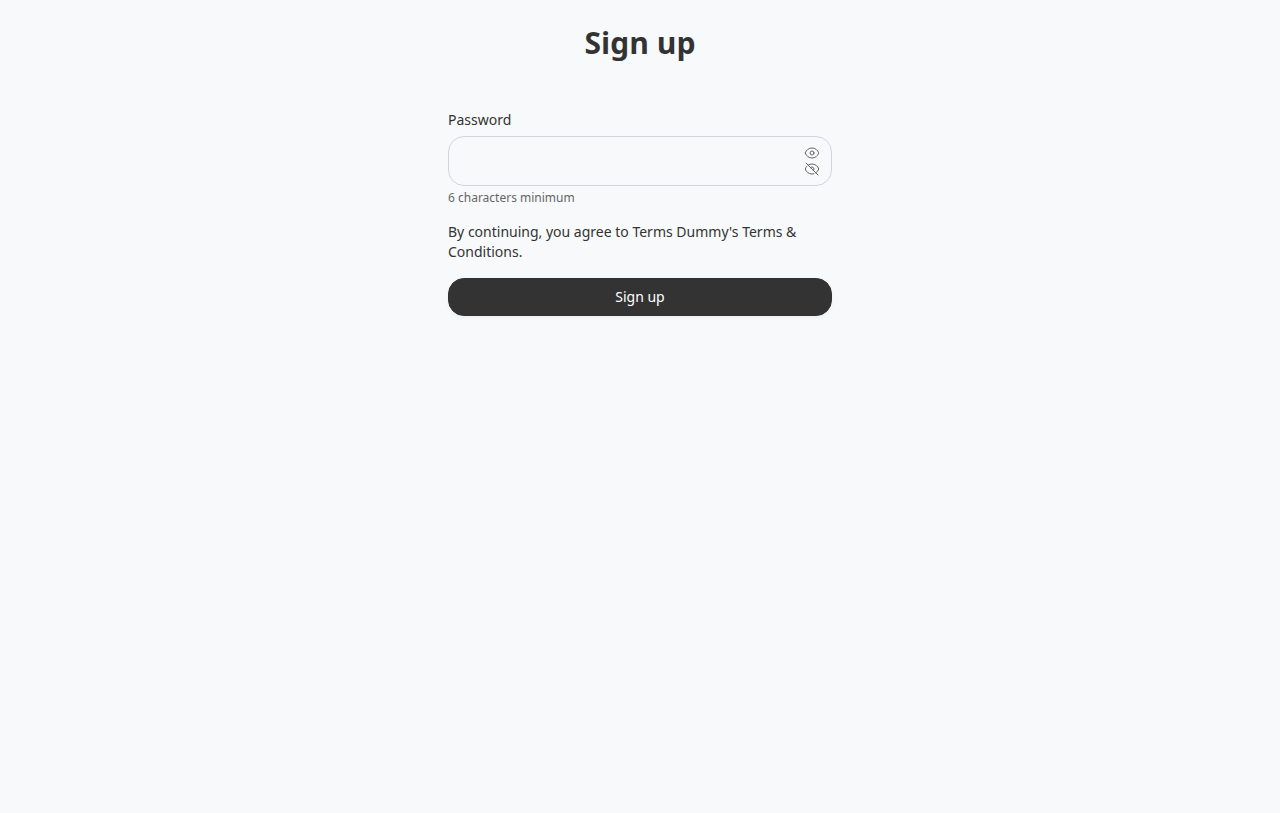
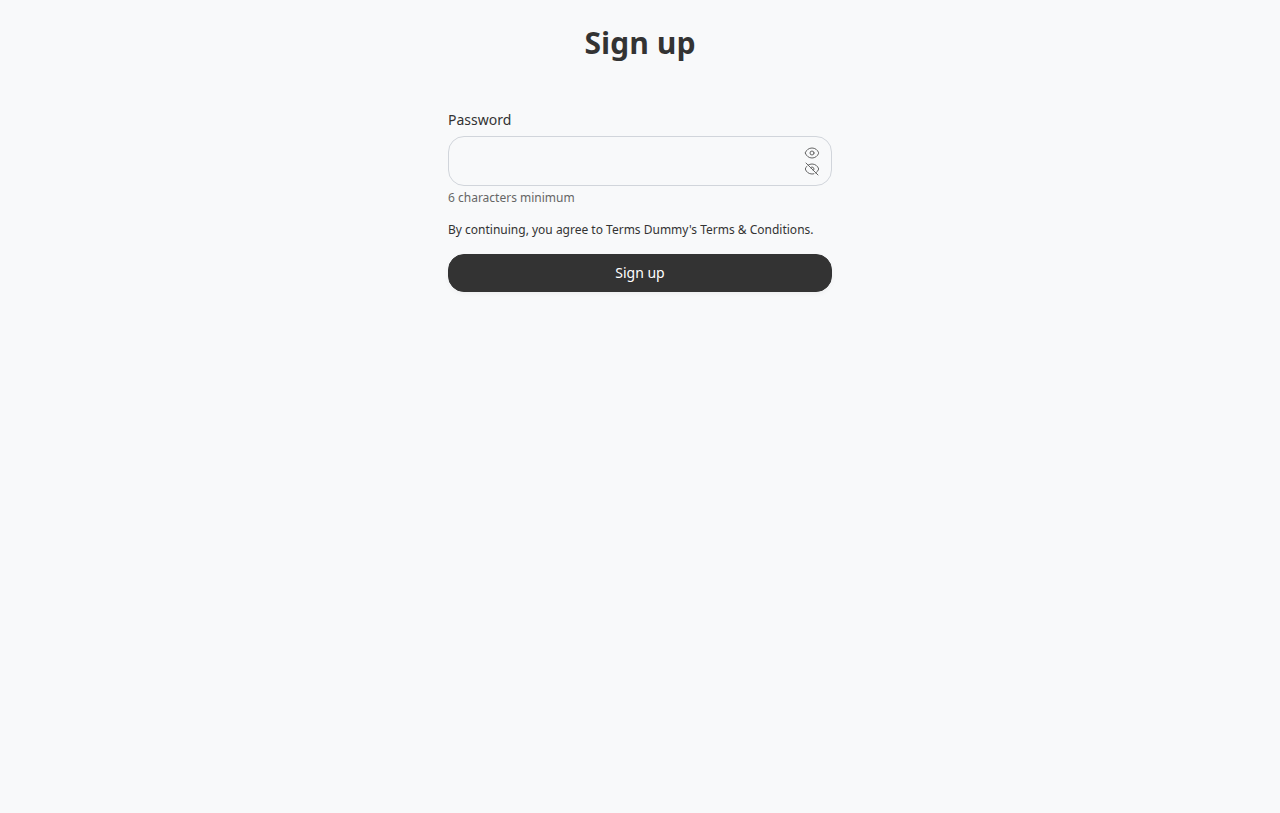
Add continue-notice size and use xs on signup.
Default stays sm so host call sites are unchanged. Unknown sizes fall back to sm.

Changed region(s): [[0.3438, 0.2768, 0.6562, 0.3998]]

diff --git a/app/helpers/recording_studio_terms_and_conditions/continue_notice_helper.rb b/app/helpers/recording_studio_terms_and_conditions/continue_notice_helper.rb
@@ -5,12 +5,14 @@ module RecordingStudioTermsAndConditions
     include TermsContextHelper
     include AgreeCopyHelper
 
-    def recording_studio_terms_continue_notice(actor: nil, root: nil, pending: nil)
+    CONTINUE_NOTICE_SIZES = { xs: "text-xs", sm: "text-sm" }.freeze
+
+    def recording_studio_terms_continue_notice(actor: nil, root: nil, pending: nil, size: :sm)
       terms = continue_notice_terms(actor, root, pending)
       return if terms.blank?
 
       modal_id = "terms-continue-notice-#{SecureRandom.hex(4)}"
-      safe_join([continue_notice_copy(modal_id), continue_notice_modal(terms, modal_id)])
+      safe_join([continue_notice_copy(modal_id, size), continue_notice_modal(terms, modal_id)])
     end
 
     private
@@ -24,8 +26,12 @@ module RecordingStudioTermsAndConditions
       recording_studio_terms_pending_list(actor, root, pending).first
     end
 
-    def continue_notice_copy(modal_id)
-      content_tag(:p, continue_notice_sentence(modal_id), class: "text-sm")
+    def continue_notice_copy(modal_id, size = :sm)
+      content_tag(:p, continue_notice_sentence(modal_id), class: continue_notice_size_class(size))
+    end
+
+    def continue_notice_size_class(size)
+      CONTINUE_NOTICE_SIZES.fetch(size.to_s.to_sym, CONTINUE_NOTICE_SIZES[:sm])
     end
 
     def continue_notice_sentence(modal_id)

diff --git a/test/recording_studio_terms_and_conditions_test.rb b/test/recording_studio_terms_and_conditions_test.rb
@@ -285,6 +285,8 @@ class RecordingStudioTermsAndConditionsTest < Minitest::Test
     assert_includes helper, "def recording_studio_terms_agree"
     refute_includes helper, "def recording_studio_terms_continue_notice"
     assert_includes continue_helper, "def recording_studio_terms_continue_notice"
+    assert_includes continue_helper, "size: :sm"
+    assert_includes continue_helper, "text-xs"
     assert_includes continue_helper, "continue_notice"
     assert_includes continue_helper, "FlatPack::Modal::Component"
     assert_includes continue_helper, "terms_content(terms.body)"
@@ -666,6 +668,7 @@ class RecordingStudioTermsAndConditionsTest < Minitest::Test
     assert_includes File.read(skill), "Upgrade (0.6.0 → 0.6.1)"
     extra_fields_source = File.read(File.join(engine_root, extra_fields))
     assert_includes extra_fields_source, "recording_studio_terms_continue_notice"
+    assert_includes extra_fields_source, "size: :xs"
     refute_includes extra_fields_source, "recording_studio_terms_agree("
     assert_includes File.read(skill), '{ "source" => "continue_notice" }'
   end

diff --git a/test/dummy/test/helpers/terms_agree_helper_test.rb b/test/dummy/test/helpers/terms_agree_helper_test.rb
@@ -56,6 +56,24 @@ class TermsAgreeHelperTest < ActionView::TestCase
     assert_includes html, "fp-content"
     assert_includes html, "Be kind in the booth."
     assert_includes html, "Studio Terms"
+    assert_includes html, '<p class="text-sm">'
+    refute_includes html, '<p class="text-xs">'
+  end
+
+  test "continue notice size xs uses text-xs" do
+    terms = Struct.new(:body, :title).new("<p>Be kind.</p>", "Studio Terms")
+
+    html = recording_studio_terms_continue_notice(pending: [terms], size: :xs)
+
+    assert_includes html, '<p class="text-xs">'
+    refute_includes html, '<p class="text-sm">'
+  end
+
+  test "continue notice size sm and unknown sizes use text-sm" do
+    terms = Struct.new(:body, :title).new("<p>Be kind.</p>", "Studio Terms")
+
+    assert_includes recording_studio_terms_continue_notice(pending: [terms], size: :sm), '<p class="text-sm">'
+    assert_includes recording_studio_terms_continue_notice(pending: [terms], size: :lg), '<p class="text-sm">'
   end
 
   test "continue notice drops the possessive when app_name is blank" do

diff --git a/test/dummy/test/integration/signup_agree_test.rb b/test/dummy/test/integration/signup_agree_test.rb
@@ -23,6 +23,7 @@ class SignupAgreeTest < ActionDispatch::IntegrationTest
     assert_select "input[type=checkbox][name=agreed]", count: 0
     assert_includes CGI.unescapeHTML(response.body), "By continuing, you agree"
     assert_includes response.body, "Terms &amp; Conditions"
+    assert_includes response.body, '<p class="text-xs">'
   end
 
   test "create-password writes a continue_notice receipt and clears the gate" do

diff --git a/README.md b/README.md
@@ -18,10 +18,10 @@ This addon ships the **data shape, domain helpers, clickwrap Agree screen, embed
 - **Domain helpers** on `RecordingStudioTermsAndConditions`: `current_published_for`, `pending_published_list` / `pending_published_for`, `accepted?`, `accept!`, `requires_acceptance?`, `reaccepting?`
 - **Agree screen** for the current published Terms (pre-checked checkbox, gated Agree, `accept!`). No PageNav. Live copy sits in a Flatpack Collapse (closed by default) wrapping `FlatPack::Content`. Optional `require_scroll_to_end` keeps Agree disabled until a sentinel after the live body is visible (default off). If IntersectionObserver is missing, Agree stays enabled. The calendar date stays in the heading, not a relative “hours ago”
 - **Host helper** `recording_studio_terms_agree` / `recording_studio_terms_agree(inside_form: true)` — Flatpack checkbox only, HTML `required`. Pass `link_terms: true` to turn the word terms into a link to the public URL. On submit, call `accept!` for the pending live version
-- **Host helper** `recording_studio_terms_continue_notice` — “By continuing, you agree to [app name]'s Terms & Conditions”. The linked words open a Flatpack Modal with `FlatPack::Content` inside. On the host POST, call `accept!` with `{ "source" => "continue_notice" }`. Do not replace the checkbox helper
+- **Host helper** `recording_studio_terms_continue_notice` — “By continuing, you agree to [app name]'s Terms & Conditions”. Optional `size:` `:xs` (`text-xs`) or `:sm` (`text-sm`, default). The linked words open a Flatpack Modal with `FlatPack::Content` inside. On the host POST, call `accept!` with `{ "source" => "continue_notice" }`. Do not replace the checkbox helper
 - **Gate** on the host `ApplicationController`: redirects to Agree until the live version is accepted, and again after a new publish
 - **Users hook** on `RecordingStudioUser::Auth::BaseController` so after sign in / sign up land on Agree when acceptance is still required
-- **Users create-password slot** (`recording_studio_user/auth/registrations/_extra_fields`) renders `recording_studio_terms_continue_notice` when live Terms are pending. Successful `create_password` calls `accept!` with provenance `continue_notice`. Soft: TnC still boots without Users Auth.
+- **Users create-password slot** (`recording_studio_user/auth/registrations/_extra_fields`) renders `recording_studio_terms_continue_notice(..., size: :xs)` when live Terms are pending. Successful `create_password` calls `accept!` with provenance `continue_notice`. Soft: TnC still boots without Users Auth.
 - **Admin** create/edit Terms, Publishable `QuickActions` (Draft / Publish now / Preview), and a Users page of receipts for each term. Engine tables use `TablePage` (Pagy, 25 rows) and Flatpack infinite pagination. Admin hub Terms and Conditions and Agree stats tables set `paginate per_page: 25`. Live and Agrees widgets stack the title above the count (`view_variant: :card`). The hub does not show Accessible **+ Access**. Writes go through a registered Admin `terms` resource (`authorize_resource!` / `perform_recording_studio_admin_action!`)
 - **Public Terms URL** at `/terms/:uuid/:slug` via Publishable
 - **FlatPack** UI component library for all views
@@ -138,7 +138,7 @@ The dummy host follows Recording Studio's root recording pattern:
 - The gem includes `ForcesAcceptance` on the host `ApplicationController` and prepends `UsersAuthRedirect` on Users Auth. Both reuse `pending_published_list` / `requires_acceptance?` and the mounted Agree screen. Auth, Agree, Admin, public Terms, and root switch stay reachable so people can sign in, accept, publish, or switch workspace.
 - With Users `>= 0.12.1`, the gem fills the create-password `extra_fields` slot with `recording_studio_terms_continue_notice` and accepts pending live Terms on that POST (`source` `continue_notice`). Continuing the form is the agreement. `NotLive` does not fail signup.
 - Hosts can render `recording_studio_terms_agree` or `recording_studio_terms_agree(inside_form: true)` inside signup or similar. The helper is the `required` `agreed` checkbox only. On the host POST, call `accept!` for the pending live version — do not invent a second receipt.
-- Hosts can also render `recording_studio_terms_continue_notice`. The link opens a Flatpack Modal with the live copy in `FlatPack::Content`. On that POST, call `accept!` with `{ "source" => "continue_notice" }`.
+- Hosts can also render `recording_studio_terms_continue_notice`. Pass `size: :xs` for `text-xs` (signup extra_fields does this). Default is `size: :sm`. The link opens a Flatpack Modal with the live copy in `FlatPack::Content`. On that POST, call `accept!` with `{ "source" => "continue_notice" }`.
 - Scroll-to-end before Agree is optional. Set `config.require_scroll_to_end = true`, or wrap the live copy and Agree button with `recording_studio_terms_scroll_to_end(require_scroll_to_end: true)` and `recording_studio_terms_agree_button(require_scroll_to_end: true)`. Pin the engine Stimulus controller in the host importmap. The checkbox stays required either way. Missing IntersectionObserver leaves Agree enabled. An already-visible sentinel unlocks immediately.
 - Product configuration is `mount_path`, `app_name`, `require_scroll_to_end`, and `capture_request_provenance` (IP/UA on gem UI accepts, default off). There is no API key. `app_name` is optional. A blank value uses Site Settings `name_for` when that gem is loaded.
 - Each configured recordable declares `recording_studio_recordable(...)`; strict declaration validation stays enabled

diff --git a/.github/skills/recording-studio-terms-and-conditions/SKILL.md b/.github/skills/recording-studio-terms-and-conditions/SKILL.md
@@ -51,7 +51,7 @@ Live means Publishable `currently_published?`. `accept!` raises `NotLive` for dr
 
 `pending_published_list` is the live Terms the actor still needs. The host gate (`ForcesAcceptance`) and Users Auth post-auth stay on until that set is empty.
 
-When Users `>= 0.12.1` is loaded, this gem overrides `recording_studio_user/auth/registrations/_extra_fields` on create-password signup. Pending live Terms render `recording_studio_terms_continue_notice`. After a successful `create_password`, `accept!` runs with `{ "source" => "continue_notice" }`. Continuing the form is the agreement. The gem still boots if Users Auth is absent.
+When Users `>= 0.12.1` is loaded, this gem overrides `recording_studio_user/auth/registrations/_extra_fields` on create-password signup. Pending live Terms render `recording_studio_terms_continue_notice(..., size: :xs)`. After a successful `create_password`, `accept!` runs with `{ "source" => "continue_notice" }`. Continuing the form is the agreement. The gem still boots if Users Auth is absent.
 
 Drop the host helper onto a form:
 
@@ -60,11 +60,12 @@ Drop the host helper onto a form:
 <%= recording_studio_terms_agree(inside_form: true) %>
 <%= recording_studio_terms_agree(link_terms: true) %>
 <%= recording_studio_terms_continue_notice %>
+<%= recording_studio_terms_continue_notice(size: :xs) %>
 ```
 
 The checkbox helper is HTML `required`, named `agreed`. Put it in a form. On submit call `accept!` for the pending live version. Do not add a second receipt table.
 
-`recording_studio_terms_continue_notice` is a second helper. Copy uses `config.app_name`. The Terms & Conditions link opens a Flatpack Modal with `FlatPack::Content` inside. On that host POST, call `accept!` with `{ "source" => "continue_notice" }`. Do not remove the checkbox helper. Dummy `/agree_helper` posts both helpers and then lets home load.
+`recording_studio_terms_continue_notice` is a second helper. Copy uses `config.app_name`. `size:` is `:xs` (`text-xs`) or `:sm` (`text-sm`, default). Unknown sizes use `:sm`. The Terms & Conditions link opens a Flatpack Modal with `FlatPack::Content` inside. On that host POST, call `accept!` with `{ "source" => "continue_notice" }`. Do not remove the checkbox helper. Dummy `/agree_helper` posts both helpers and then lets home load.
 
 Optional scroll-to-end before Agree (default off):
 
@@ -82,7 +83,7 @@ Agree is still the post-auth destination. It has no PageNav. Live copy sits in a
 
 ## Upgrade (0.6.0 → 0.6.1)
 
-No migrations. Pin `recording_studio_user` `>= 0.12.1`. Signup extra_fields is the continue-notice helper, not the checkbox. Receipts from that POST use provenance `continue_notice`.
+No migrations. Pin `recording_studio_user` `>= 0.12.1`. Signup extra_fields is the continue-notice helper at `size: :xs`, not the checkbox. Receipts from that POST use provenance `continue_notice`. `size:` is `:xs` or `:sm` (default `:sm`).
 
 ## Upgrade (0.3.x → 0.4.0)
 

diff --git a/CHANGELOG.md b/CHANGELOG.md
@@ -10,7 +10,8 @@ and this project adheres to [Semantic Versioning](https://semver.org/spec/v2.0.0
 ## [0.6.1] - 2026-09-21
 
 ### Added
-- Users create-password override of `recording_studio_user/auth/registrations/_extra_fields` renders `recording_studio_terms_continue_notice` when live Terms are still pending. Signup does not render the checkbox helper.
+- Users create-password override of `recording_studio_user/auth/registrations/_extra_fields` renders `recording_studio_terms_continue_notice(..., size: :xs)` when live Terms are still pending. Signup does not render the checkbox helper.
+- `recording_studio_terms_continue_notice` accepts `size:` `:xs` (`text-xs`) or `:sm` (`text-sm`, default). Unknown sizes fall back to `:sm`.
 - Soft `SignupAcceptance` on Users `RegistrationsController`: after a successful `create_password`, pending live Terms are `accept!`ed with provenance `source` `continue_notice`. Continuing the form is the agreement. `ForcesAcceptance` and `UsersAuthRedirect` still gate. `NotLive` does not fail signup.
 
 ### Changed
@@ -19,6 +20,7 @@ and this project adheres to [Semantic Versioning](https://semver.org/spec/v2.0.0
 ### Upgrade notes (0.6.0 → 0.6.1)
 - Pin `recording_studio_user` to `0.12.1` or later. No Terms or Acceptance schema change. No user-table timestamp.
 - Signup writes receipts with `{ "source" => "continue_notice" }` when create-password succeeds. Hosts that already call `accept!` on that POST stay idempotent. Leave the Agree screen and post-auth redirect in place.
+- Continue-notice `size:` is `:xs` or `:sm` (default `:sm`). Signup extra_fields uses `:xs`.
 
 ## [0.6.0] - 2026-09-21
 

diff --git a/MIGRATION_NOTES.md b/MIGRATION_NOTES.md
@@ -20,7 +20,7 @@ The host gate and Users post-auth hook attach automatically. Users `>= 0.12.1` a
 
 ## Upgrade from 0.6.0 to 0.6.1
 
-No schema change. Pin `recording_studio_user` `>= 0.12.1`. Signup extra_fields is the continue-notice helper. A successful create-password writes `{ "source" => "continue_notice" }`. Keep `ForcesAcceptance` and `UsersAuthRedirect`.
+No schema change. Pin `recording_studio_user` `>= 0.12.1`. Signup extra_fields is the continue-notice helper at `size: :xs`. A successful create-password writes `{ "source" => "continue_notice" }`. Keep `ForcesAcceptance` and `UsersAuthRedirect`. Continue-notice `size:` is `:xs` or `:sm` (default `:sm`).
 
 ## Upgrade from 0.5.0 to 0.6.0
 
